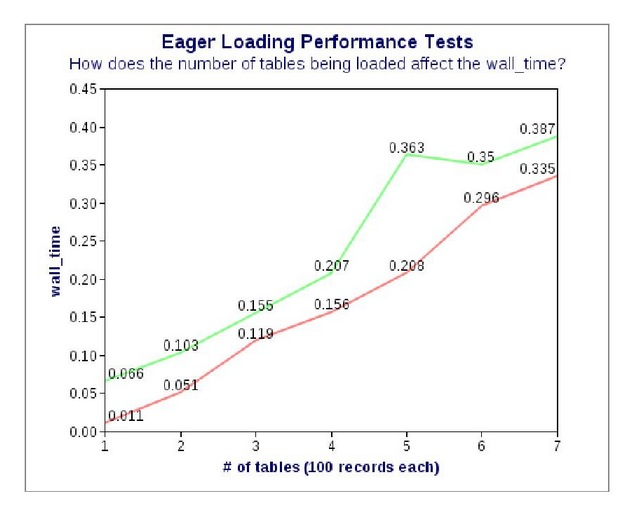
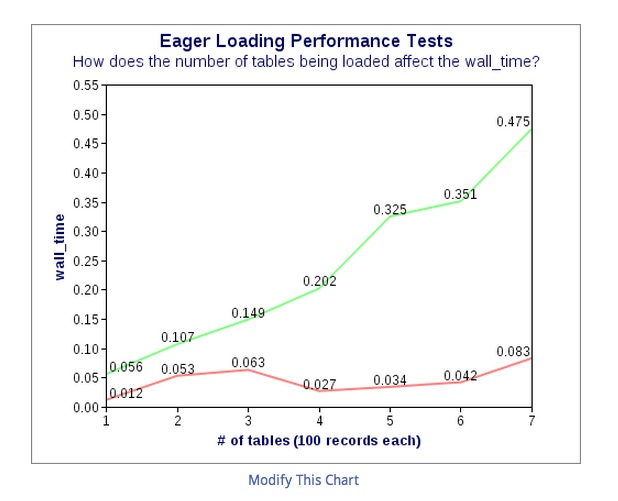
Site updated at 2013-09-15 06:50:12 UTC

Changed region(s): [[0.0307, 0.0299, 0.9531, 0.988], [0.6764, 0.4491, 0.7071, 0.479]]

diff --git a/index.html b/index.html
@@ -141,11 +141,11 @@ Equally important, if I ever want to be on the other side teaching someone else 
   </header>
 
 
-  <div class="entry-content"><p>Recording with multiplexing inspected by firebug from trans-atlantic fiber-optic cables aka the 4ms arbitrage industry aka America the startup aka the words-per-minute hall-of-fame aka the prepared-exclusively-for-Avi-Flombaum library the mayor&rsquo;s school-for-kids-that-can&rsquo;t-code-good-and-want-to-learn-to-do-other-things-good-too aka the Flatiron School in exile</p>
+  <div class="entry-content"><p>Recording with multiplexing inspected by firebug from trans-atlantic fiber-optic cables aka the 4ms arbitrage industry aka America the startup aka the fast-fingers words-per-minute hall-of-fame aka the prepared-exclusively-for-Avi-Flombaum library aka the mayor&rsquo;s school-for-kids-that-can&rsquo;t-code-good-and-want-to-learn-to-do-other-things-good-too aka the Flatiron School in exile</p>
 
-<p>Eager loading is boss. I wanted to know how exactly how helpful the :includes method is so I spent my Saturday night rigging up some performance tests.</p>
+<p>Eager loading is boss. But exactly how boss is it? I wanted to measure how helpful the :includes method is so I spent my Saturday night rigging up some performance tests.</p>
 
-<p>I determined that the advantage you get from eager loading depends on how many records you are fetching from the database. I was surprised to find that it makes no difference how many associated tables you are referencing. I had, previously, assumed there would be a linear relationship between the number of tables and the time saved. If you save 100ms eager loading one associated table, shouldn&rsquo;t you save 200ms eager loading two tables? Somehow, that&rsquo;s not the case. The associations don&rsquo;t add up. Rather, eager loading saves time per record. It depends on how tall the tables you&rsquo;re referencing are, not how many tables you&rsquo;re referencing.</p>
+<p>I determined that the advantage you get from eager loading depends on how many records you are fetching as much as it depends on how many associated tables you are drawing those records from.</p>
 
 <p>In order to test references to associated tables I am using methods that call each of the associations individually. For example, for one reference I have:</p>
 
@@ -220,7 +220,7 @@ Equally important, if I ever want to be on the other side teaching someone else 
 </span><span class='line'>  end
 </span><span class='line'>
 </span><span class='line'>  def self.creators_users_ideas_teams_directors_competitors_and_industries_with_includes
-</span><span class='line'>    projects = self.includes(:creator).all
+</span><span class='line'>    projects = self.includes(:creator, :idea, :team, :director, :competitor, :industry).all
 </span><span class='line'>    projects.each do |project|
 </span><span class='line'>      project.creator.name if project.creator
 </span><span class='line'>      project.user.name if project.user
@@ -233,19 +233,21 @@ Equally important, if I ever want to be on the other side teaching someone else 
 </span><span class='line'>  end</span></code></pre></td></tr></table></div></figure>
 
 
-<p>Here is the graph of my experiment with varying the number of records being retrieved from the database:</p>
+<p>Here is the graph of my experiment varying the number of records being retrieved from the database (the red line is with eager loading):</p>
 
 <p><img src="/images/eager-records.jpg" alt="tables" height="300" width="1000" display="inline"></p>
 
-<p>You save more time when you are retrieving more records.</p>
+<p>You save more time when you are retrieving more records. You save approximately half a millisecond per record.</p>
 
-<p>Here is the graph of my experiment with varying the number of tables being referenced.</p>
+<p>Here is the graph of my experiment with varying the number of tables being referenced (again, the red line is with eager loading):</p>
 
 <p><img src="/images/eager-associations.jpg" alt="tables" height="300" width="1000" display="inline"></p>
 
-<p>The time saved referencing a single associated table is the same as the time saved referencing seven associated tables. How is this possible? If I have 100 project records and I reference seven associated tables I am pulling up 700 more records in 7 different tables. I would expect this to be significantly slower than pulling up 100 more records in 1 table.</p>
+<p>This graph looks very similar to the previous one where I vary the number of records. The similarity makes sense. The way I have my methods set up I am retrieving 100 records from each additional table. So it&rsquo;s not surprising that the performance advantage that comes with eager loading one more table is approximately the same as the performance advantage that comes with eager loading 100 more records.</p>
 
-<p>If you can explain this phenomenon please e-mail me at <a href="&#x6d;&#x61;&#x69;&#108;&#x74;&#111;&#58;&#x63;&#97;&#112;&#116;&#x61;&#x69;&#110;&#103;&#114;&#111;&#x76;&#x65;&#114;&#x40;&#x67;&#109;&#x61;&#105;&#108;&#x2e;&#x63;&#111;&#109;">&#99;&#x61;&#x70;&#x74;&#97;&#105;&#x6e;&#103;&#114;&#111;&#118;&#101;&#x72;&#x40;&#103;&#x6d;&#x61;&#105;&#x6c;&#46;&#99;&#111;&#109;</a></p>
+<p>Without eager loading every record comes from a separate database query that doesn&rsquo;t care whether it is returning to the same table over and over or hitting a different table every time. With eager loading you have one initial database query then, after that, every relational call is referencing our stored array of hashes.</p>
+
+<p>So the answer is eager loading saves you approximately half a millisecond per record.</p>
 </div>
   
   

diff --git a/blog/2013/09/14/eager-loading-performance-tests/index.html b/blog/2013/09/14/eager-loading-performance-tests/index.html
@@ -111,11 +111,11 @@
   </header>
 
 
-  <div class="entry-content"><p>Recording with multiplexing inspected by firebug from trans-atlantic fiber-optic cables aka the 4ms arbitrage industry aka America the startup aka the words-per-minute hall-of-fame aka the prepared-exclusively-for-Avi-Flombaum library the mayor&rsquo;s school-for-kids-that-can&rsquo;t-code-good-and-want-to-learn-to-do-other-things-good-too aka the Flatiron School in exile</p>
+  <div class="entry-content"><p>Recording with multiplexing inspected by firebug from trans-atlantic fiber-optic cables aka the 4ms arbitrage industry aka America the startup aka the fast-fingers words-per-minute hall-of-fame aka the prepared-exclusively-for-Avi-Flombaum library aka the mayor&rsquo;s school-for-kids-that-can&rsquo;t-code-good-and-want-to-learn-to-do-other-things-good-too aka the Flatiron School in exile</p>
 
-<p>Eager loading is boss. I wanted to know how exactly how helpful the :includes method is so I spent my Saturday night rigging up some performance tests.</p>
+<p>Eager loading is boss. But exactly how boss is it? I wanted to measure how helpful the :includes method is so I spent my Saturday night rigging up some performance tests.</p>
 
-<p>I determined that the advantage you get from eager loading depends on how many records you are fetching from the database. I was surprised to find that it makes no difference how many associated tables you are referencing. I had, previously, assumed there would be a linear relationship between the number of tables and the time saved. If you save 100ms eager loading one associated table, shouldn&rsquo;t you save 200ms eager loading two tables? Somehow, that&rsquo;s not the case. The associations don&rsquo;t add up. Rather, eager loading saves time per record. It depends on how tall the tables you&rsquo;re referencing are, not how many tables you&rsquo;re referencing.</p>
+<p>I determined that the advantage you get from eager loading depends on how many records you are fetching as much as it depends on how many associated tables you are drawing those records from.</p>
 
 <p>In order to test references to associated tables I am using methods that call each of the associations individually. For example, for one reference I have:</p>
 
@@ -190,7 +190,7 @@
 </span><span class='line'>  end
 </span><span class='line'>
 </span><span class='line'>  def self.creators_users_ideas_teams_directors_competitors_and_industries_with_includes
-</span><span class='line'>    projects = self.includes(:creator).all
+</span><span class='line'>    projects = self.includes(:creator, :idea, :team, :director, :competitor, :industry).all
 </span><span class='line'>    projects.each do |project|
 </span><span class='line'>      project.creator.name if project.creator
 </span><span class='line'>      project.user.name if project.user
@@ -203,19 +203,21 @@
 </span><span class='line'>  end</span></code></pre></td></tr></table></div></figure>
 
 
-<p>Here is the graph of my experiment with varying the number of records being retrieved from the database:</p>
+<p>Here is the graph of my experiment varying the number of records being retrieved from the database (the red line is with eager loading):</p>
 
 <p><img src="/images/eager-records.jpg" alt="tables" height="300" width="1000" display="inline"></p>
 
-<p>You save more time when you are retrieving more records.</p>
+<p>You save more time when you are retrieving more records. You save approximately half a millisecond per record.</p>
 
-<p>Here is the graph of my experiment with varying the number of tables being referenced.</p>
+<p>Here is the graph of my experiment with varying the number of tables being referenced (again, the red line is with eager loading):</p>
 
 <p><img src="/images/eager-associations.jpg" alt="tables" height="300" width="1000" display="inline"></p>
 
-<p>The time saved referencing a single associated table is the same as the time saved referencing seven associated tables. How is this possible? If I have 100 project records and I reference seven associated tables I am pulling up 700 more records in 7 different tables. I would expect this to be significantly slower than pulling up 100 more records in 1 table.</p>
+<p>This graph looks very similar to the previous one where I vary the number of records. The similarity makes sense. The way I have my methods set up I am retrieving 100 records from each additional table. So it&rsquo;s not surprising that the performance advantage that comes with eager loading one more table is approximately the same as the performance advantage that comes with eager loading 100 more records.</p>
 
-<p>If you can explain this phenomenon please e-mail me at <a href="&#x6d;&#x61;&#x69;&#108;&#x74;&#111;&#58;&#x63;&#97;&#112;&#116;&#x61;&#x69;&#110;&#103;&#114;&#111;&#x76;&#x65;&#114;&#x40;&#x67;&#109;&#x61;&#105;&#108;&#x2e;&#x63;&#111;&#109;">&#99;&#x61;&#x70;&#x74;&#97;&#105;&#x6e;&#103;&#114;&#111;&#118;&#101;&#x72;&#x40;&#103;&#x6d;&#x61;&#105;&#x6c;&#46;&#99;&#111;&#109;</a></p>
+<p>Without eager loading every record comes from a separate database query that doesn&rsquo;t care whether it is returning to the same table over and over or hitting a different table every time. With eager loading you have one initial database query then, after that, every relational call is referencing our stored array of hashes.</p>
+
+<p>So the answer is eager loading saves you approximately half a millisecond per record.</p>
 </div>
 
 
